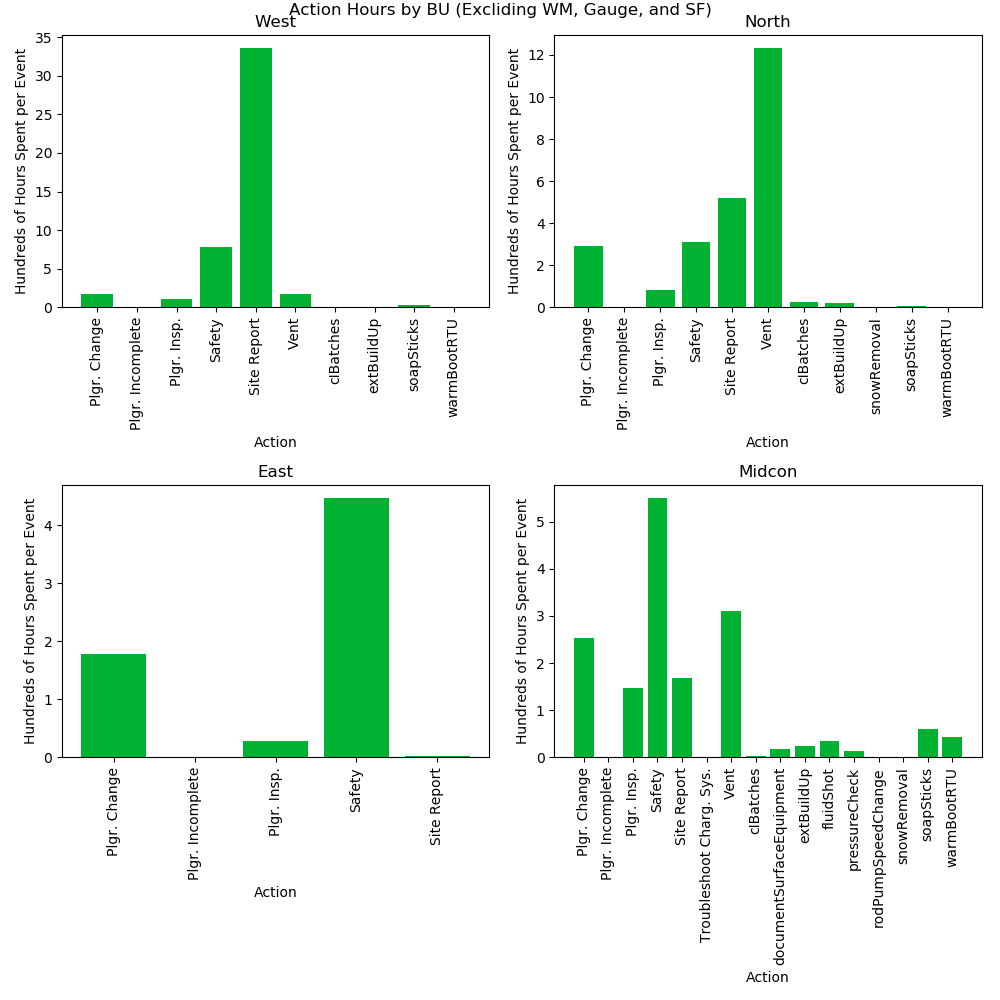
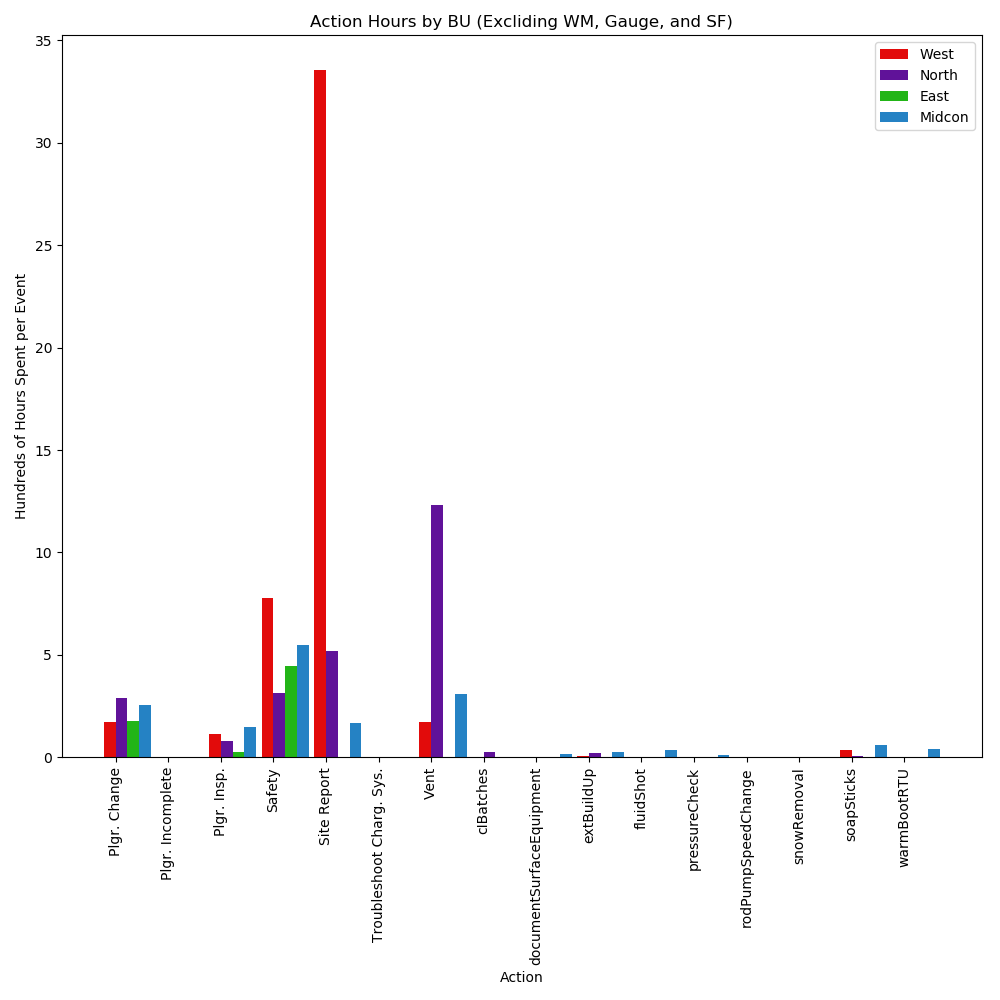
all bus on 1 graph

diff --git a/analyze.py b/analyze.py
@@ -136,6 +136,25 @@ def gauge_pull():
 		ORDER BY Wellkey, [Action Date]
 	""")
 
+	# DROP TABLE IF EXISTS #tmp;
+	#
+	# SELECT [_id],
+	#       [TankCode],
+	#       [gaugeDate],
+	#       [liquidAmount],
+	#       ROW_NUMBER() OVER(PARTITION BY [tankcode] ORDER BY [gaugedate] DESC) AS [rk]
+	# INTO [#TMP]
+	# FROM   EDW.Enbase.GaugeData AS GD
+	# WHERE  [liquidAmount] IS NOT NULL;
+	#
+	# DROP TABLE IF EXISTS #CarryOverIds;
+	#
+	# SELECT [t1].[_id]
+	# INTO [#CarryOverIds]
+	# FROM   #TMP AS T
+	#       INNER JOIN #TMP AS T1 ON T1.RK = T.Rk - 1
+	#                           AND T.tankCode = T1.tankCode;
+
 	cursor.execute(SQLCommand)
 	results = cursor.fetchall()
 
@@ -282,27 +301,72 @@ def gauge_table_plot(df):
 	plt.title('Comparison of WM Entires to Those with Matched Events', y=.8)
 	plt.savefig('figures/gauge_table.png')
 
+def site_report(df, graph_per='driver'):
+	plt.close()
+	fig, ax = plt.subplots(1, 1, figsize=(10, 10))
+
+	colors = {'east': '#22b517', 'midcon': '#2582c4',
+			  'north': '#601299', 'west': '#e20b0b'}
+
+	grouped_df = df.groupby(['BusinessUnit', 'Action Type - No count'], as_index=False).mean()
+	grouped_df.sort_values(['BusinessUnit', 'Action Type - No count'], inplace=True)
+
+	i = 0
+	index = np.arange(len(events))
+	width = .225
+
+	for bu in df['BusinessUnit'].unique():
+		bu_df = grouped_df.loc[grouped_df['BusinessUnit'] == bu, :].sort_values('Action Type - No count')
+
+		ax.bar(index + (width * i),
+			   bu_df['agg_dur'].values / divisor / 60 / 60, width,
+			   color=colors[bu.lower()], label=bu)
+		ax.set_xticks(index + width / 2)
+		ax.set_xticklabels(events)
+		i += 1
+
+	plt.title('Action Hours by BU (Excliding WM, Gauge, and SF)')
+	plt.xlabel('Action')
+	plt.ylabel('{}Hours Spent per Event{}'.format(scale, graph_title))
+	plt.xticks(rotation='vertical')
+	plt.legend()
+	plt.tight_layout()
+	plt.savefig('figures/action_hours_{}.png'.format(graph_save))
+
 def work_dist(df, graph_per='driver'):
 	plt.close()
-	fig, ((ax1, ax2), (ax3, ax4)) = plt.subplots(2, 2, figsize=(10, 10))
+	# fig, ((ax1, ax2), (ax3, ax4)) = plt.subplots(2, 2, figsize=(10, 10))
+	fig, ax = plt.subplots(1, 1, figsize=(10, 10))
 
 	drivers = {'east': 42, 'midcon': 61, 'north': 69, 'west': 140}
 	wells = {'east': 880, 'midcon': 2853, 'north': 2003, 'west': 3834}
+	colors = {'east': '#22b517', 'midcon': '#2582c4',
+			  'north': '#601299', 'west': '#e20b0b'}
+
+	df.loc[(df['Action Type - No count'] == 'Safety 2.0') |
+		   (df['Action Type - No count'] == 'Safety 3.0'),
+		   'Action Type - No count'] = 'Safety'
 
 	grouped_df = df.groupby(['BusinessUnit', 'Action Type - No count'], as_index=False).sum()
+	for bu in grouped_df['BusinessUnit'].unique():
+		for event in grouped_df['Action Type - No count'].unique():
+			if event not in grouped_df.loc[grouped_df['BusinessUnit'] == bu,
+										   'Action Type - No count'].unique():
+				grouped_df = grouped_df.append(pd.DataFrame([[bu, event, 0]],
+											   columns = ['BusinessUnit',
+											   			  'Action Type - No count',
+														  'agg_dur']),
+											   ignore_index=True)
+	grouped_df.sort_values(['BusinessUnit', 'Action Type - No count'], inplace=True)
 
-	for bu, axis in zip(df['BusinessUnit'].unique(), [ax1, ax2, ax3, ax4]):
-		bu_df = grouped_df.loc[grouped_df['BusinessUnit'] == bu, :]
+	events = sorted(df['Action Type - No count'].unique())
 
-		bu_safety = bu_df.loc[(bu_df['Action Type - No count'] == 'Safety 2.0') |
-							  (bu_df['Action Type - No count'] == 'Safety 3.0'),
-							  'agg_dur'].sum()
-		safety_df = pd.DataFrame([[bu, 'Safety', bu_safety]],
-								 columns=bu_df.columns)
-		bu_df = bu_df.append(safety_df)
+	i = 0
+	index = np.arange(len(events))
+	width = .225
 
-		bu_df = bu_df.loc[(bu_df['Action Type - No count'] != 'Safety 2.0') &
-						  (bu_df['Action Type - No count'] != 'Safety 3.0'), :]
+	for bu in df['BusinessUnit'].unique():
+		bu_df = grouped_df.loc[grouped_df['BusinessUnit'] == bu, :].sort_values('Action Type - No count')
 
 		if graph_per == 'driver':
 			divisor = drivers[bu.lower()]
@@ -319,17 +383,19 @@ def work_dist(df, graph_per='driver'):
 			graph_title = ''
 			scale = 'Hundreds of '
 			graph_save = 'total'
-		axis.bar(bu_df['Action Type - No count'].values,
-				 bu_df['agg_dur'].values / divisor / 60 / 60, .8,
-				 color='#00b232', label='Action Type Counts')
-		axis.set_title('{}'.format(bu))
-		axis.xaxis.set_visible(True)
-		axis.yaxis.set_visible(True)
-		plt.setp(axis.xaxis.get_majorticklabels(), rotation=90)
-		axis.set_xlabel('Action')
-		axis.set_ylabel('{}Hours Spent per Event{}'.format(scale, graph_title))
 
-	plt.suptitle('Action Hours by BU (Excliding WM, Gauge, and SF)', y=.997)
+		ax.bar(index + (width * i),
+			   bu_df['agg_dur'].values / divisor / 60 / 60, width,
+			   color=colors[bu.lower()], label=bu)
+		ax.set_xticks(index + width / 2)
+		ax.set_xticklabels(events)
+		i += 1
+
+	plt.title('Action Hours by BU (Excliding WM, Gauge, and SF)')
+	plt.xlabel('Action')
+	plt.ylabel('{}Hours Spent per Event{}'.format(scale, graph_title))
+	plt.xticks(rotation='vertical')
+	plt.legend()
 	plt.tight_layout()
 	plt.savefig('figures/action_hours_{}.png'.format(graph_save))
 
@@ -449,10 +515,10 @@ if __name__ == '__main__':
 					   (a_df['Action Type - No count'] != 'SF'),
 					  ['BusinessUnit', '_id', 'Action Type - No count', 'Action Date']]
 	all_df = a_df.loc[:, ['BusinessUnit', '_id', 'Action Type - No count', 'Action Date']]
-	wh_df = pd.merge(all_df, hour_df, left_on='_id', right_on='id')
+	wh_df = pd.merge(work_df, hour_df, left_on='_id', right_on='id')
 	action_count(a_df)
-	# for g_type in ['driver', 'all']:
-	# 	work_dist(work_df[['BusinessUnit', 'Action Type - No count', 'agg_dur']], g_type)
+	for g_type in ['driver', 'all']:
+		work_dist(wh_df[['BusinessUnit', 'Action Type - No count', 'agg_dur']], g_type)
 
 	# dispatch_wm(dis_df.loc[(dis_df['Action Type - No count'] == 'WM Completed') &
 	# 				   	   (dis_df['CommentAction'].notnull()), :])
